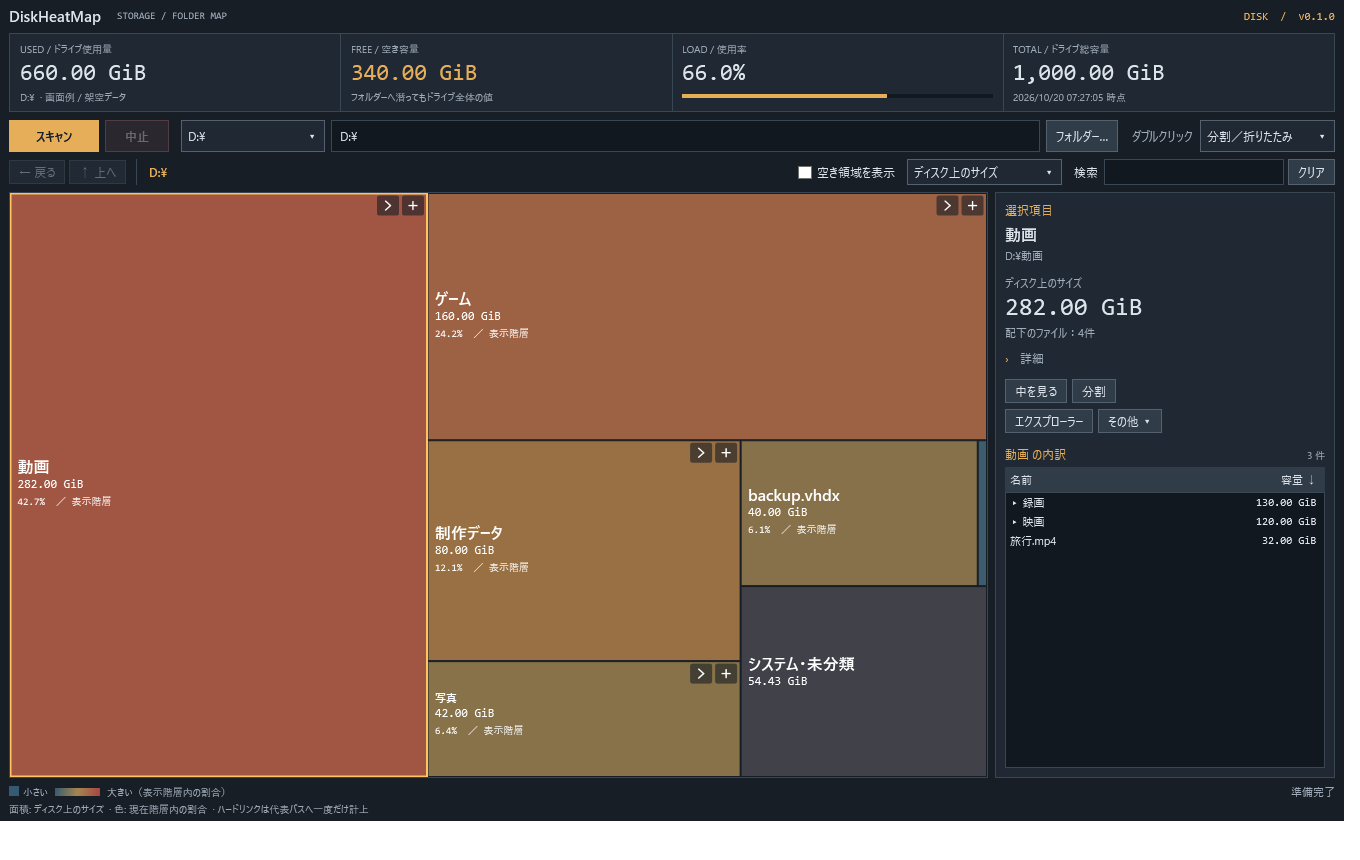
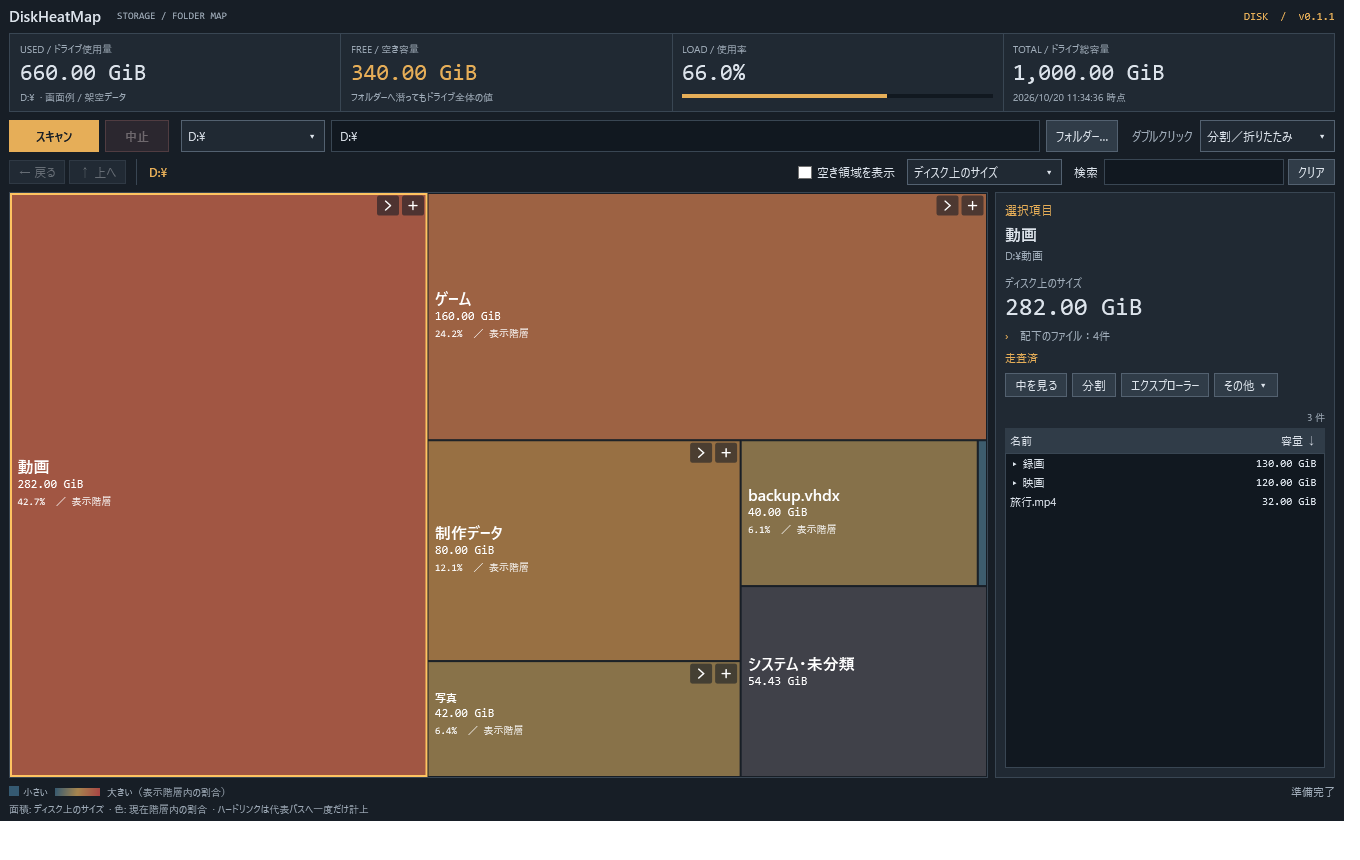
docs: publish DiskHeatMap v0.1.1 distribution notes

Changed region(s): [[0.7412, 0.3628, 0.9882, 0.6349], [0.8956, 0.4233, 0.9265, 0.4535]]

diff --git a/RELEASE.md b/RELEASE.md
@@ -1,14 +1,21 @@
-DiskHeatMapの初回公開版です。Windowsのディスク使用量を面積で確認し、フォルダーへ潜る・枠内を分割する操作で大きい項目を探せます。
+v0.1.1では、一覧から選んだ項目をマップに見える形で反映する操作と、スキャン中の選択、OneDriveの容量計測に対応しました。
 
-今回の版では、右側の詳細欄を簡潔に整理し、選んだフォルダーの内訳を表示します。エクスプローラーからフォルダー／ドライブ1件をドロップしてスキャンを開始できます。
+- 一覧の選択に合わせて親フォルダーを自動で分割。現在階層と一覧の対象・スクロール位置は保ちます。
+- スキャン中もマップ・一覧の選択と中止を利用でき、更新後も選択を保持します。階層移動・分割・ファイル操作は完了・中止後に利用できます。
+- マップ左上に静止した「計測中／中止中」チップを表示。クリックや配置を妨げません。
+- 選択欄と初期案内を整理し、「走査済」「リンク除外 ○件 · 取得不可 ○件」を表示します。
+- OneDriveはPC上の名前・メタデータだけを取得し、本体のダウンロードとクラウド一覧の補完は行いません。保存状態と、通常サイズ／ディスク上のサイズを確認できます。
+- 同期領域内の削除確認に、クラウド側・他端末・共有者への影響を明記します。
 
-**必要環境:** Windows 11 x64 / .NET 10 Desktop Runtime x64（非同梱）。日本語UI・オフライン動作。
+**必要環境:** Windows 11 x64 / .NET 10 Desktop Runtime x64（非同梱）。日本語UI。スキャンにクラウド接続は不要です。
 
-- `DiskHeatMap-v0.1.0-win-x64.zip`: 単一EXEと日本語の使い方（HTML/TXT）。
-- `DiskHeatMap-v0.1.0-win-x64.zip.sha256.txt`: 上記ZIPだけのSHA-256。
+- `DiskHeatMap-v0.1.1-win-x64.zip`: 単一EXEと日本語の使い方（HTML/TXT）。
+- `DiskHeatMap-v0.1.1-win-x64.zip.sha256.txt`: 上記ZIPだけのSHA-256。
 
-スキャン中は「中止」だけ操作できます。「完全に削除」はごみ箱を経由せず、実行前に対象を確認する画面を表示します。
+同期ファイルの削除は、PCの空き容量だけを増やす操作ではなく、クラウド側や他の端末にも反映されます。「ゴミ箱へ」でもWindowsのごみ箱に実体が残らない場合があります。「完全に削除」はWindowsのごみ箱を経由しない削除で、クラウド側のごみ箱や保持データを消去する機能ではありません。実アカウントでの削除同期・復元は未検証です。詳しくは同梱の使い方を確認してください。
+
+更新時はアプリを終了し、既存の `DiskHeatMap.settings.json` を残してEXEと使い方を置き換えてください。
 
 GitHubが自動生成する **「Source code」は公開資料リポジトリの内容**であり、アプリ本体やアプリケーションのソースコードではありません。アプリは `win-x64.zip` をダウンロードしてください。
 
-画面例は架空データです。詳しい操作は同梱の「使い方.html」を参照してください。
+画面例は架空データです。v0.1.0の配布は引き続き利用できます。

diff --git a/CHANGELOG.md b/CHANGELOG.md
@@ -1,5 +1,15 @@
 # 変更履歴
 
+## v0.1.1 — 2026-10-20
+
+- 一覧で選んだ項目が見えるまで親フォルダーを自動で分割し、マップに選択を反映。一覧の対象・並び・スクロール位置は維持。
+- スキャン中もマップ・一覧から選択し、取得済みの情報を確認可能。選択を更新後も保持し、完了・中止後へ引継ぎ。
+- マップ左上に「計測中／中止中」の静止した角丸チップを表示。クリックやマップの配置を妨げない表示。
+- 初期案内、選択欄、操作ボタン、詳細の開閉を整理。「走査済」と理由別の除外・取得不可件数を表示。
+- OneDriveのPC上の情報を、ダウンロードやクラウド一覧補完なしで集計。保存状態と両容量基準の表示に対応。
+- 同期ファイルの削除確認に、クラウド側・他端末・共有者への影響と、ごみ箱・保持データの扱いを明記。
+- 日本語の使い方と架空データの画面例を更新。
+
 ## v0.1.0 — 2026-10-20
 
 初回公開。

diff --git a/DOWNLOAD.md b/DOWNLOAD.md
@@ -2,14 +2,14 @@
 
 [GitHub Releases](https://github.com/mezon-web/DiskHeatMap-Releases/releases/latest) から、同じ版の以下2ファイルをダウンロードしてください。
 
-- `DiskHeatMap-v0.1.0-win-x64.zip`
-- `DiskHeatMap-v0.1.0-win-x64.zip.sha256.txt`
+- `DiskHeatMap-v0.1.1-win-x64.zip`
+- `DiskHeatMap-v0.1.1-win-x64.zip.sha256.txt`
 
 PowerShellでZIPのSHA-256を計算します。
 
 ```powershell
-Get-FileHash -LiteralPath .\DiskHeatMap-v0.1.0-win-x64.zip -Algorithm SHA256
-Get-Content -LiteralPath .\DiskHeatMap-v0.1.0-win-x64.zip.sha256.txt
+Get-FileHash -LiteralPath .\DiskHeatMap-v0.1.1-win-x64.zip -Algorithm SHA256
+Get-Content -LiteralPath .\DiskHeatMap-v0.1.1-win-x64.zip.sha256.txt
 ```
 
 両方の64桁の値が一致することを確認してください。大文字・小文字の違いは問題ありません。ZIPを展開し、`DiskHeatMap.exe` を起動します。日本語の使い方も同梱しています。
